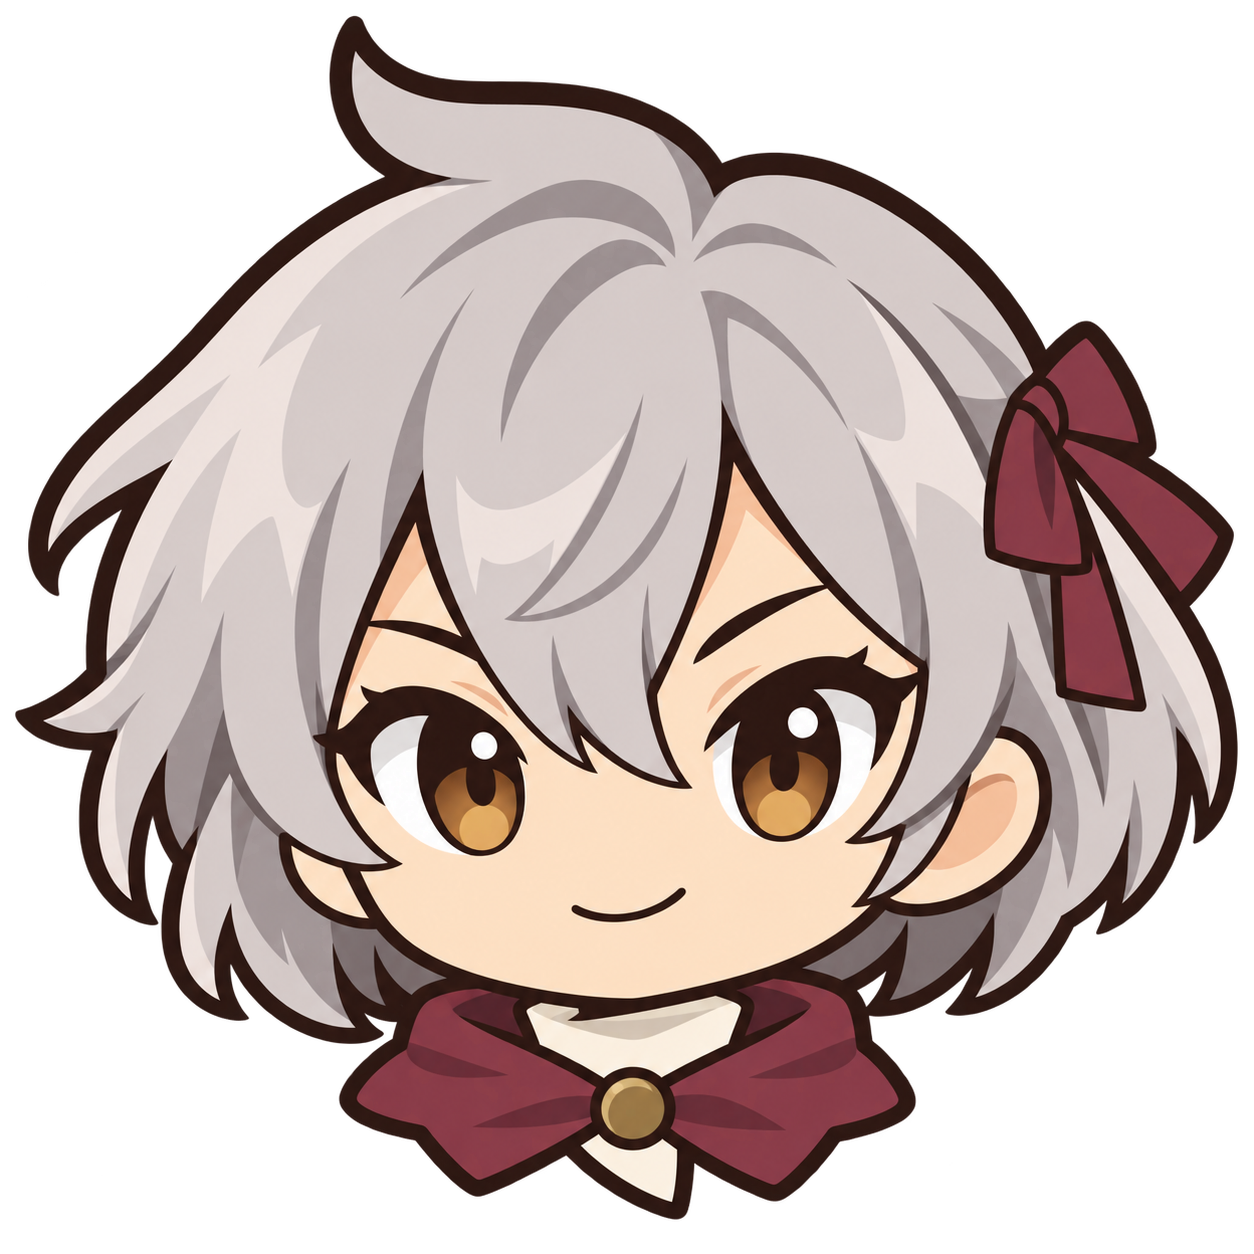
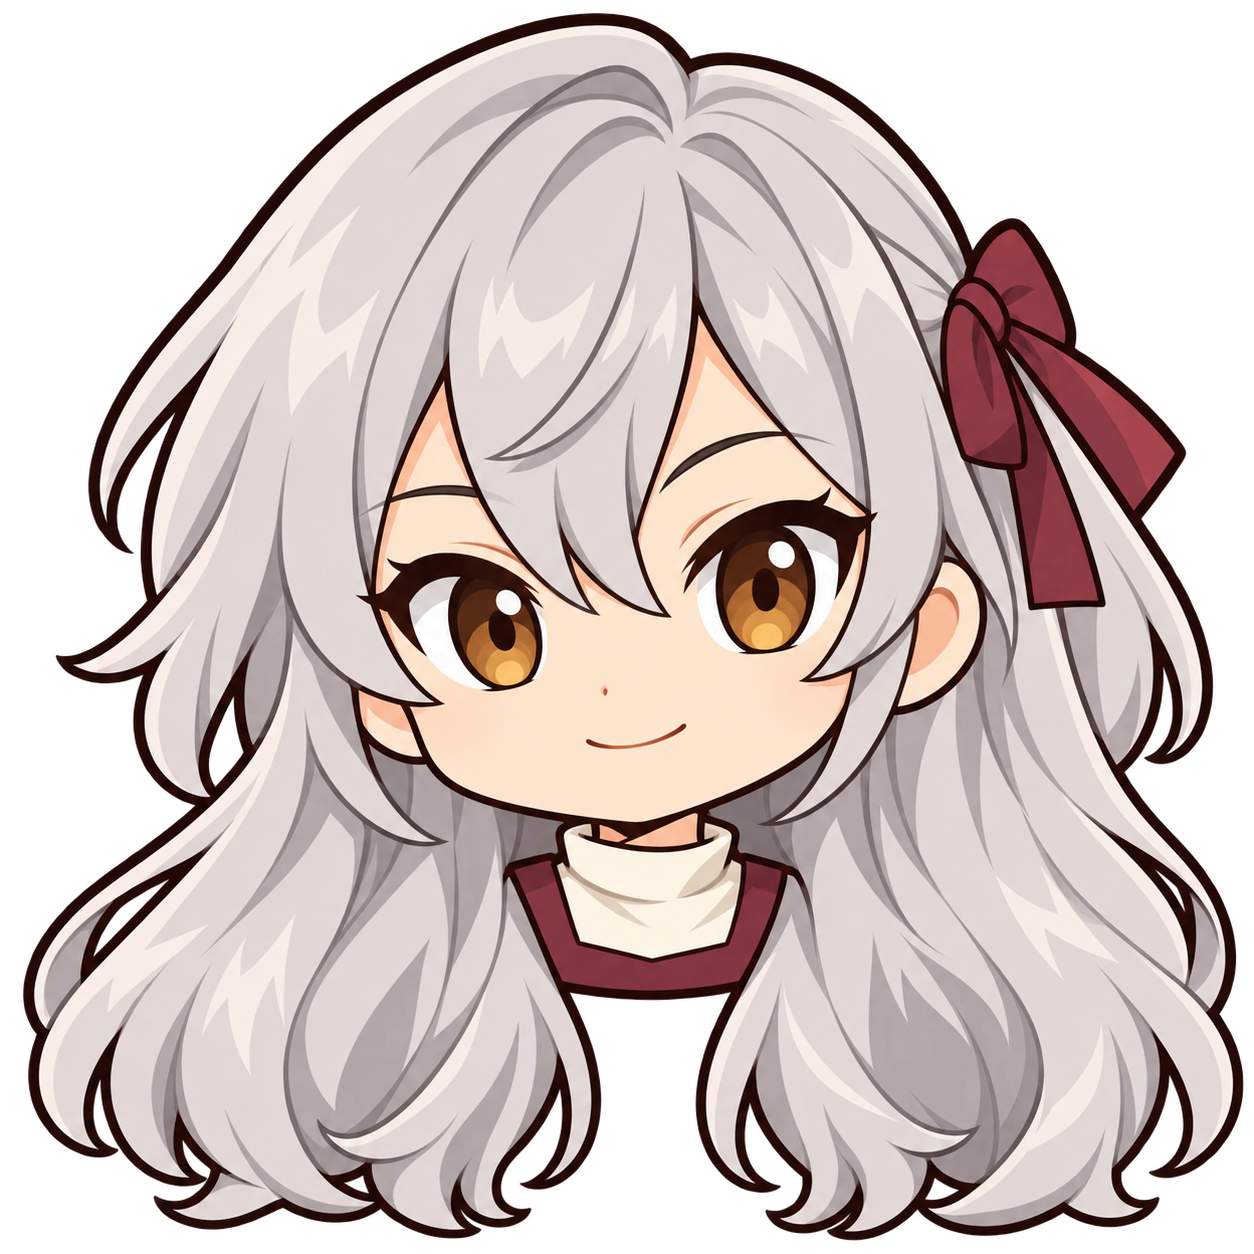
Redesign Lina with long hair and simplify exit movement cards

diff --git a/src/battle/Room.ts b/src/battle/Room.ts
@@ -71,19 +71,8 @@ export class Room {
   at(tile: Point) {
     return this.enemies.find((e) => equal(e.position, tile));
   }
-  prepareExploration() {
-    if (!this.won || this.lost) return;
-    while (this.hand.length < 3) this.draw();
-    // Keep a short step available so parity-only hands cannot strand the exit.
-    if (!this.hand.includes('short')) {
-      const source = this.deck.includes('short') ? this.deck : this.discard;
-      const index = source.indexOf('short');
-      if (index >= 0) {
-        source.splice(index, 1);
-        this.discard.push(this.hand.pop()!);
-        this.hand.push('short');
-      }
-    }
+  get availableCards(): readonly CardId[] {
+    return this.won && !this.lost ? ['short', 'diagonal'] : this.hand;
   }
   canExplore(index: number, destination: Point) {
     return this.won && !this.lost && this.matchesCard(index, destination);
@@ -93,12 +82,10 @@ export class Room {
     const action: MoveAction = {
       from: [...this.hero],
       to: [...destination],
-      kind: this.hand[index],
+      kind: this.availableCards[index],
       removedId: -1
     };
     this.hero = [...destination];
-    this.discard.push(this.hand.splice(index, 1)[0]);
-    this.prepareExploration();
     return action;
   }
   private draw() {
@@ -122,7 +109,7 @@ export class Room {
   }
   private matchesCard(index: number, destination: Point) {
     if (!Number.isInteger(index) || !inside(destination)) return false;
-    const card = data.cards[this.hand[index]];
+    const card = data.cards[this.availableCards[index]];
     if (!card) return false;
     const delta: Point = [destination[0] - this.hero[0], destination[1] - this.hero[1]];
     if (!card.offsets.some((o) => equal(o, delta))) return false;
@@ -170,7 +157,6 @@ export class Room {
     this.hero = destination.slice() as Point;
     this.discard.push(this.hand.splice(index, 1)[0]);
     this.actions--;
-    if (this.won) this.prepareExploration();
     return action;
   }
   endTurn(): TurnOutcome | null {

diff --git a/src/screens/BattleScreen.ts b/src/screens/BattleScreen.ts
@@ -98,11 +98,11 @@ export function mountBattle(onHome: () => void) {
       }
   }
   function syncHand() {
-    const signature = room.hand.join(',');
+    const signature = room.availableCards.join(',');
     if (signature !== handSignature) {
       handSignature = signature;
       elements.hand.replaceChildren();
-      room.hand.forEach((id, index) => {
+      room.availableCards.forEach((id, index) => {
         const definition: CardDefinition = data.cards[id],
           card = document.createElement('button');
         card.type = 'button';
@@ -433,6 +433,7 @@ export function mountBattle(onHome: () => void) {
   onClick($('result-home'), leave);
   document.addEventListener('pointerdown', (event) => {
     if (
+      event.button !== 0 ||
       busy ||
       elements.game.hidden ||
       (event.target instanceof Element && event.target.closest('button, .board-shell, .modal'))

diff --git a/src/main.ts b/src/main.ts
@@ -6,6 +6,7 @@ import { mountBattle } from './screens/BattleScreen';
 import { mountHome } from './screens/HomeScreen';
 import { element } from './ui/dom';
 
+document.addEventListener('contextmenu', (event) => event.preventDefault());
 mountTheme();
 let started = false;
 const battle = mountBattle(() => {

diff --git a/README.md b/README.md
@@ -19,7 +19,7 @@ Tauri 2 + TypeScript + Vite 的獨立桌面遊戲原型。
 - 每回合兩步，可提前結束。敵人先攻擊，再移動並預告下一輪。
 - 暖色格表示危險，每個紅色菱形代表一點傷害。
 - 短步（直向一格）、斜步（斜向一格）、突進（直向兩格，不能穿越）、躍步（斜向兩格，可跳過中間敵人）。只有落點攻擊。
-- 三間依序為林間小徑、交錯伏擊、赤角守衛。前兩間清空敵人後，上方中央開啟出口。仍須選牌，依牌的走法移到出口，但不扣行動、不推進回合。用牌後立即補滿三張，並保留至少一張短步，避免手牌限制導致無法離開；直接點地板不會移動。
+- 三間依序為林間小徑、交錯伏擊、赤角守衛。前兩間清空敵人後，上方中央開啟出口，手牌區固定顯示可重複使用的短步與斜步。仍須選牌，依牌的走法移到出口，但不扣行動、不推進回合，也不影響戰鬥牌庫；直接點地板不會移動。右鍵不顯示選單或改變選牌。
 - 房間之間保留血量，進入下一間回復 1 點、最多 5 點。每間重新準備 12 張牌、固定起手三張及兩次行動；重玩會換後續洗牌。
 - 第三間戴冠的精英赤角維持直向攻擊，一次造成 2 點傷害；和普通敵人一樣，可用一次落點攻擊擊敗。攻擊範圍與傷害菱形會顯示實際威脅。
 - 第三間通過才算整趟完成；死亡後重開會回到第一間。過關時回主畫面不會跳關或重複回血。
@@ -72,4 +72,4 @@ npm run desktop:check   # 編譯後，測真正的 Tauri/WebView2 視窗
 
 桌面檢查只在測試子程序設定本機除錯埠，正常啟動不會開啟。程式沒有檔案系統或命令執行權限，沒有遙測、CDN 或外部資產。
 
-怪物沿用原有 imagegen 圖片；角色新增大頭與主畫面立繪。原始提示詞在 `docs/ArtPrompts.md`，冒險者提示詞在 `docs/CharacterArt.md`，莉娜提示詞在 `docs/LinaArt.md`。
+怪物沿用原有 imagegen 圖片；角色新增大頭與主畫面立繪。原始提示詞在 `docs/ArtPrompts.md`，冒險者提示詞在 `docs/CharacterArt.md`，莉娜長髮版提示詞在 `docs/LinaLongHairArt.md`（初版留存於 `docs/LinaArt.md`）。

diff --git a/docs/LinaLongHairArt.md b/docs/LinaLongHairArt.md
@@ -1,0 +1,11 @@
+# Lina long-hair replacement
+
+Generated using built-in image_gen; replaces assets/LinaPortrait.png and assets/LinaHead.png at the user's request. Original versions remain in Git history.
+
+## Portrait prompt
+
+Use case: stylized-concept. Create a replacement full-body adult female adventurer portrait for a Japanese SD tactical RPG. Reference image is linework/rendering style only. Strongly distinct feminine silhouette: very long silver hair flowing down to hips in two broad softly curved masses, neat side-swept fringe, small burgundy hair ribbon, warm amber eyes with gentle lashes. No short bob, spiky boy hair or ahoge. Outfit: simple burgundy A-line travel dress over cream long sleeves, slim brown waist belt, dark stockings and brown ankle boots, no cape. Relaxed confident standing pose, hands relaxed, entire body and boots visible. Charming 3.5-head-tall SD proportions, bold clean brown outlines, broad flat color blocks, restrained cel shading, few folds, no lace, jewelry, busy textures or weapons. Centered with safe margin. Actual transparent background, no halo, glow, ground shadow, text or frame. Preserve polish of reference but create clearly different long-haired woman.
+
+## Head prompt
+
+Use case: identity-preserve. Create a square transparent game head icon of the woman in reference. Preserve her very long silver hair, burgundy side ribbon, amber eyes, soft feminine face and burgundy dress with cream collar. Oversized front-facing chibi head plus tiny collar only, no torso or hands. Show long hair as two broad side curtains extending clearly BELOW the chin to bottom of icon, ends curling gently outward; not a bob. Head fills most of square, entire silhouette with 5 percent margin, readable at 70px. Bold dark brown outline, few flat color blocks, one shadow per area, minimal strands, no ahoge. Actual transparent background, no halo, glow, backdrop, text, frame or shadow. Match reference illustration style and identity.

diff --git a/AGENTS.md b/AGENTS.md
@@ -5,7 +5,7 @@
 - The installed game must run offline with embedded assets, without a Node server or console window. Source development uses Vite; double-clicking source index.html is no longer supported.
 - Scope: a character portrait home screen (display only; no zoom), a three-room 5x5 journey, four movement cards, two enemy types and an elite imp variant. Room transitions carry health and heal 1 (maximum 5). Returning home preserves the room or pending clearance in memory; death or final victory allows a fresh journey.
 - Mouse/touch game controls only; do not introduce keyboard shortcuts without being asked.
-- Intermediate room clears open an exit on the top-center tile; no next-room modal/button. Movement still requires a card and its legal offsets, but does not spend actions or turns. Refill three cards after each exploration move and ensure a short-step card to prevent blocked exits. Enter the exit to advance and heal. Preserve cleared-room state when visiting home.
+- Intermediate room clears open an exit on the top-center tile; no next-room modal/button. Show two reusable exploration cards, short and diagonal, independent of the combat deck. Movement requires their legal offsets but spends no actions or turns. Enter the exit to advance and heal. Preserve cleared-room state when visiting home. Disable browser context menus; right-click must not change selection.
 - Two selectable characters: the original adventurer and Lina (female). Portraits are display-only. Selection changes appearance, not battle rules or progress, and is remembered locally.
 - Keep UI minimal. Reuse the approved PNG art; when new art is requested, use built-in imagegen with broad silhouettes and few details.
 - Card data and rules must stay separate from rendering. Preview must match the committed result.
